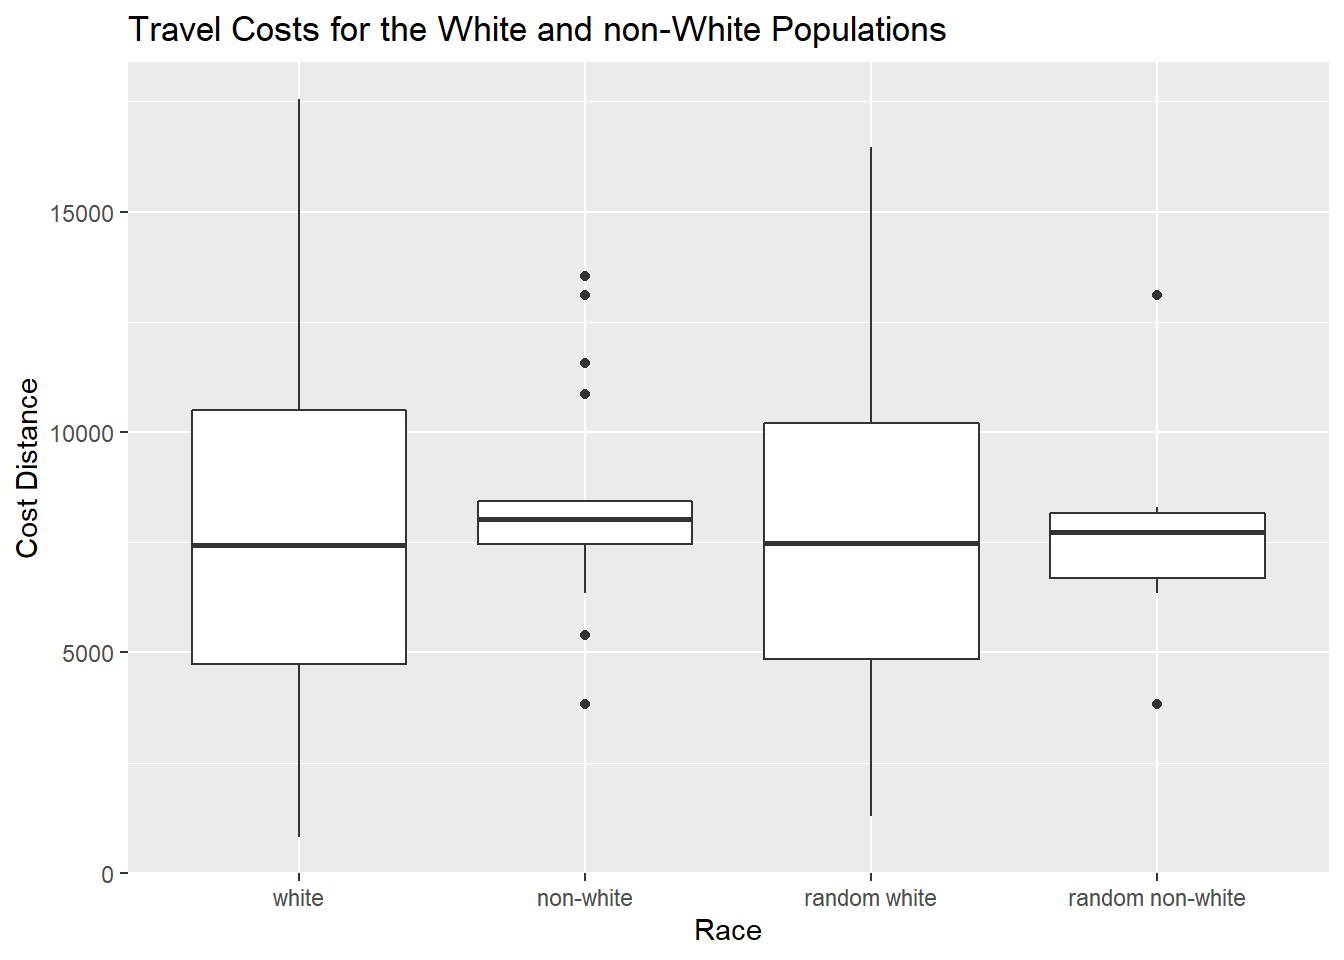
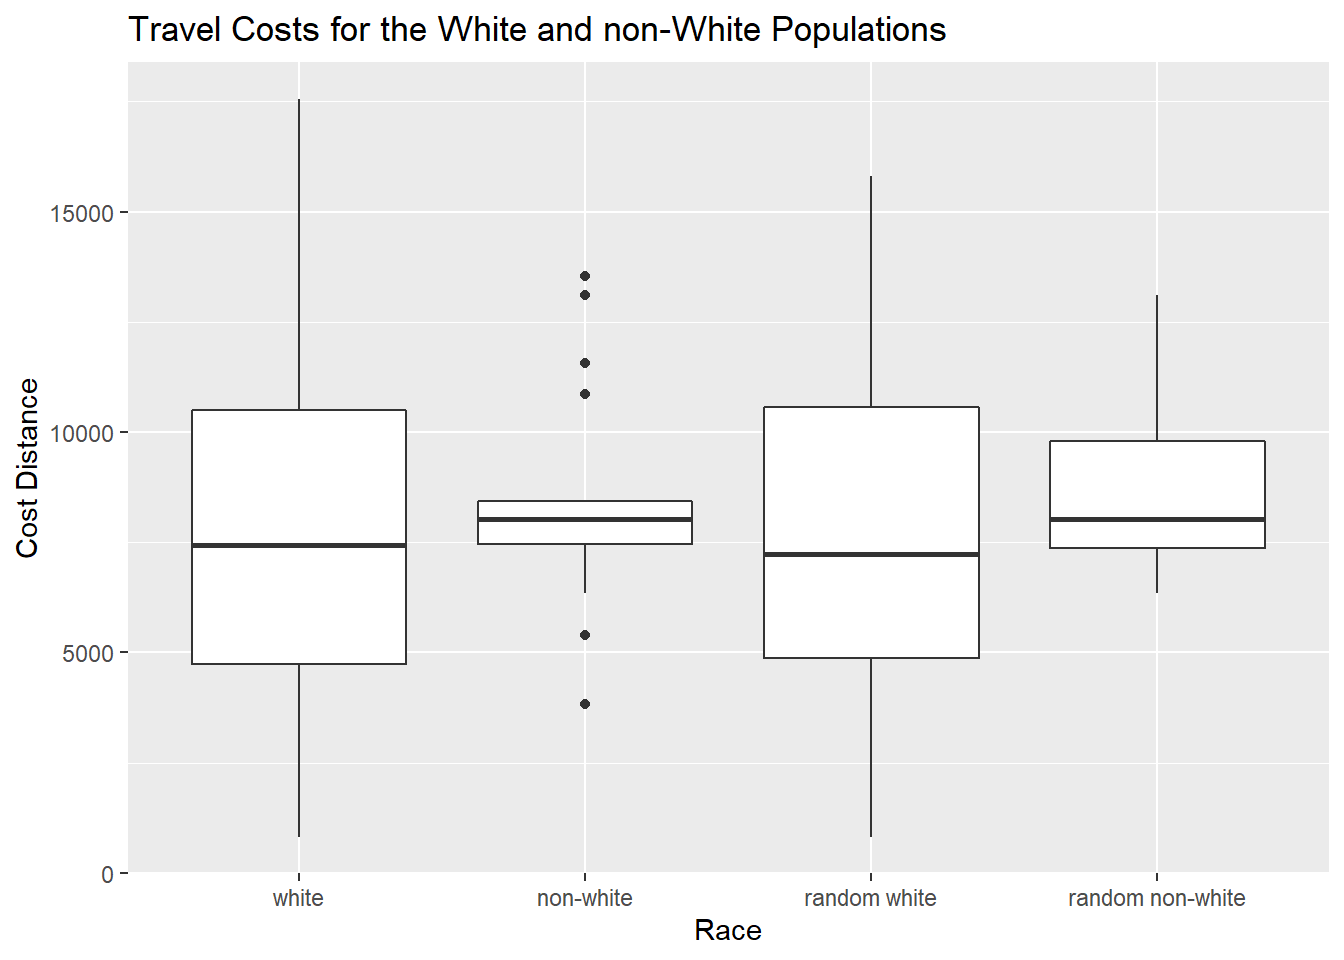
final version

Changed region(s): [[0.7812, 0.5312, 0.9375, 0.5625], [0.5625, 0.5625, 0.7188, 0.5938]]

diff --git a/docs/index.html b/docs/index.html
@@ -471,7 +471,7 @@ roads_water_plot</code></pre>
 <h1>Test No 1: Travel Cost Distances</h1>
 <p>The gdistance package calculates the travel costs when going from a start point in space to an end point in space. To do this, the package requires a base raster and a transition object. The base layer holds the values for each cell, and the transition object determines how permeable each cell is. In this way, the package relies on graph theory to determine costs.</p>
 <p>Mathematically, this test will use Dijkstra’s algorithm to run the calculations. Essentially, this algorithm adds up the values as you travel along the least cost path from point A to point B. To determine the differences in travel costs between the White and non-White populations, the houses shapefile needs to be subdivided by race, so that there is a shapefile for the white houses and the non-white houses. The transition object is simply 1/conductance, which is 1 over our project raster (as a function: talbot_rf).</p>
-<p>The point of the market has been denoted as 265 in the houses shapefile. Therefore gdistance’s costDistance function will calculate the distance from each shapefile to that point. The result is the total travel cost for all houses of the shapefile to the market. This test will determine the cost distances of four different subsets: the white population, the non-white population, a random sample of the white population (~40%, n=70), and a random sample of the non-white population (~40%, n=7).</p>
+<p>The point of the market has been denoted as 265 in the houses shapefile. Therefore gdistance’s costDistance function will calculate the distance from each shapefile to that point. The result is the total travel cost for all houses of the shapefile to the market. This test will determine the cost distances of four different subsets: the white population, the non-white population, a random sample of the white population (40%, n=70), and a random sample of the non-white population (40%, n=7).</p>
 <p>The code below shows this process:</p>
 <pre class="r"><code>#filtering houses to create White population table and SpatialPointsDataFrame: houses_w, houses_w_sp 
 houses_w&lt;-houses%&gt;%
@@ -609,22 +609,22 @@ non-white
 random white
 </td>
 <td style="text-align:right;">
-1281.8834
+825.6843
 </td>
 <td style="text-align:right;">
-4858.558
+4872.418
 </td>
 <td style="text-align:right;">
-7482.435
+7224.101
 </td>
 <td style="text-align:right;">
-7841.323
+7990.929
 </td>
 <td style="text-align:right;">
-10196.863
+10556.974
 </td>
 <td style="text-align:right;">
-16454.79
+15815.41
 </td>
 </tr>
 <tr>
@@ -632,19 +632,19 @@ random white
 random non-white
 </td>
 <td style="text-align:right;">
-3821.4865
+6350.9084
 </td>
 <td style="text-align:right;">
-6690.884
+7368.417
 </td>
 <td style="text-align:right;">
-7740.809
+8034.300
 </td>
 <td style="text-align:right;">
-7764.442
+8830.765
 </td>
 <td style="text-align:right;">
-8155.370
+9798.513
 </td>
 <td style="text-align:right;">
 13096.29
